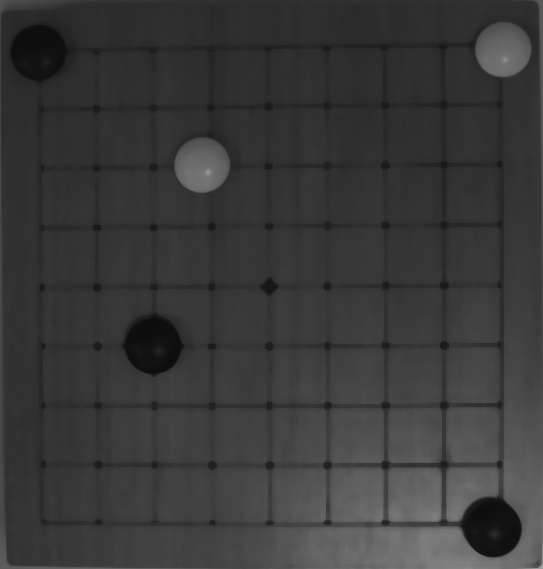
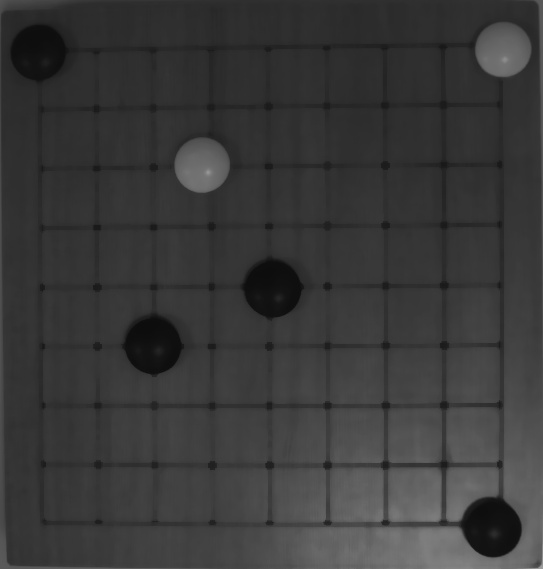
图像识别端基本测试完成

Changed region(s): [[0.442, 0.4482, 0.5599, 0.5677]]

diff --git a/eye/myeye.py b/eye/myeye.py
@@ -3,8 +3,8 @@
 # out: matrix of a board state
 import cv2
 import numpy as np
-from imageProcess import process_image
-
+from eye.opencv_process import *
+import time
 
 def see():
     img = cv2.imread('data/try0.png')
@@ -16,22 +16,23 @@ def see():
 
 
 def get_input(old_last):
-    last = cv2.imread('../camera/chessboard.png')
     while True:
-        last = process_image()
-        test = last - old_last
-        for i in range(len(test)):
-            for j in range(len(test[0])):
-                if test[i, j] == -1:
-                    return str(i)+','+str(j), last
-                if test[i, j] == 1:
-                    old_last = last
-
+        now = cv2.imread('../camera/chessboard.png')
+        now = cut_process(now)
+        result_img = image_process(now, old_last)
+        result_img = cv2.medianBlur(result_img, 7)
+        location, player = get_input_result(result_img, now)
+        if player == 'black':
+            old_last = now
+            print('Now is the AI')
+        elif player == 'white':
+            print('Now is the player')
+            old_last = now
+            return location
+        time.sleep(3)
 
 
 if __name__ == '__main__':
-    first_last = process_image()
-    first_last[2, 0] = 0
-    action, new_last = get_input(first_last)
-    print(new_last)
-    print('action', action)
+    last = cv2.imread('../camera/start.png')
+    last = cut_process(last)
+    get_input(last)

diff --git a/eye/opencv_process.py b/eye/opencv_process.py
@@ -51,7 +51,7 @@ def cut_process(input_image):
     return img2
 
 
-def get_input(result_image, chessboard_image):
+def get_input_result(result_image, chessboard_image):
     l, w = result_image.shape
     imgray = cv2.cvtColor(chessboard_image, cv2.COLOR_BGR2GRAY)
     num = 0
@@ -94,7 +94,7 @@ def get_input(result_image, chessboard_image):
 
 if __name__ == '__main__':
     img = cv2.imread('../camera/start.png')
-    last_img = cv2.imread('../camera/start.png')
+    last_img = cv2.imread('../camera/chessboard.png')
     img = cut_process(img)
     last_img = cut_process(last_img)
     cv2.imwrite('output1.jpg', img)
@@ -102,4 +102,4 @@ if __name__ == '__main__':
     result = image_process(img, last_img)
     result = cv2.medianBlur(result, 7)
     cv2.imwrite('result.jpg', result)
-    get_input(result, img)
+    get_input_result(result, img)
